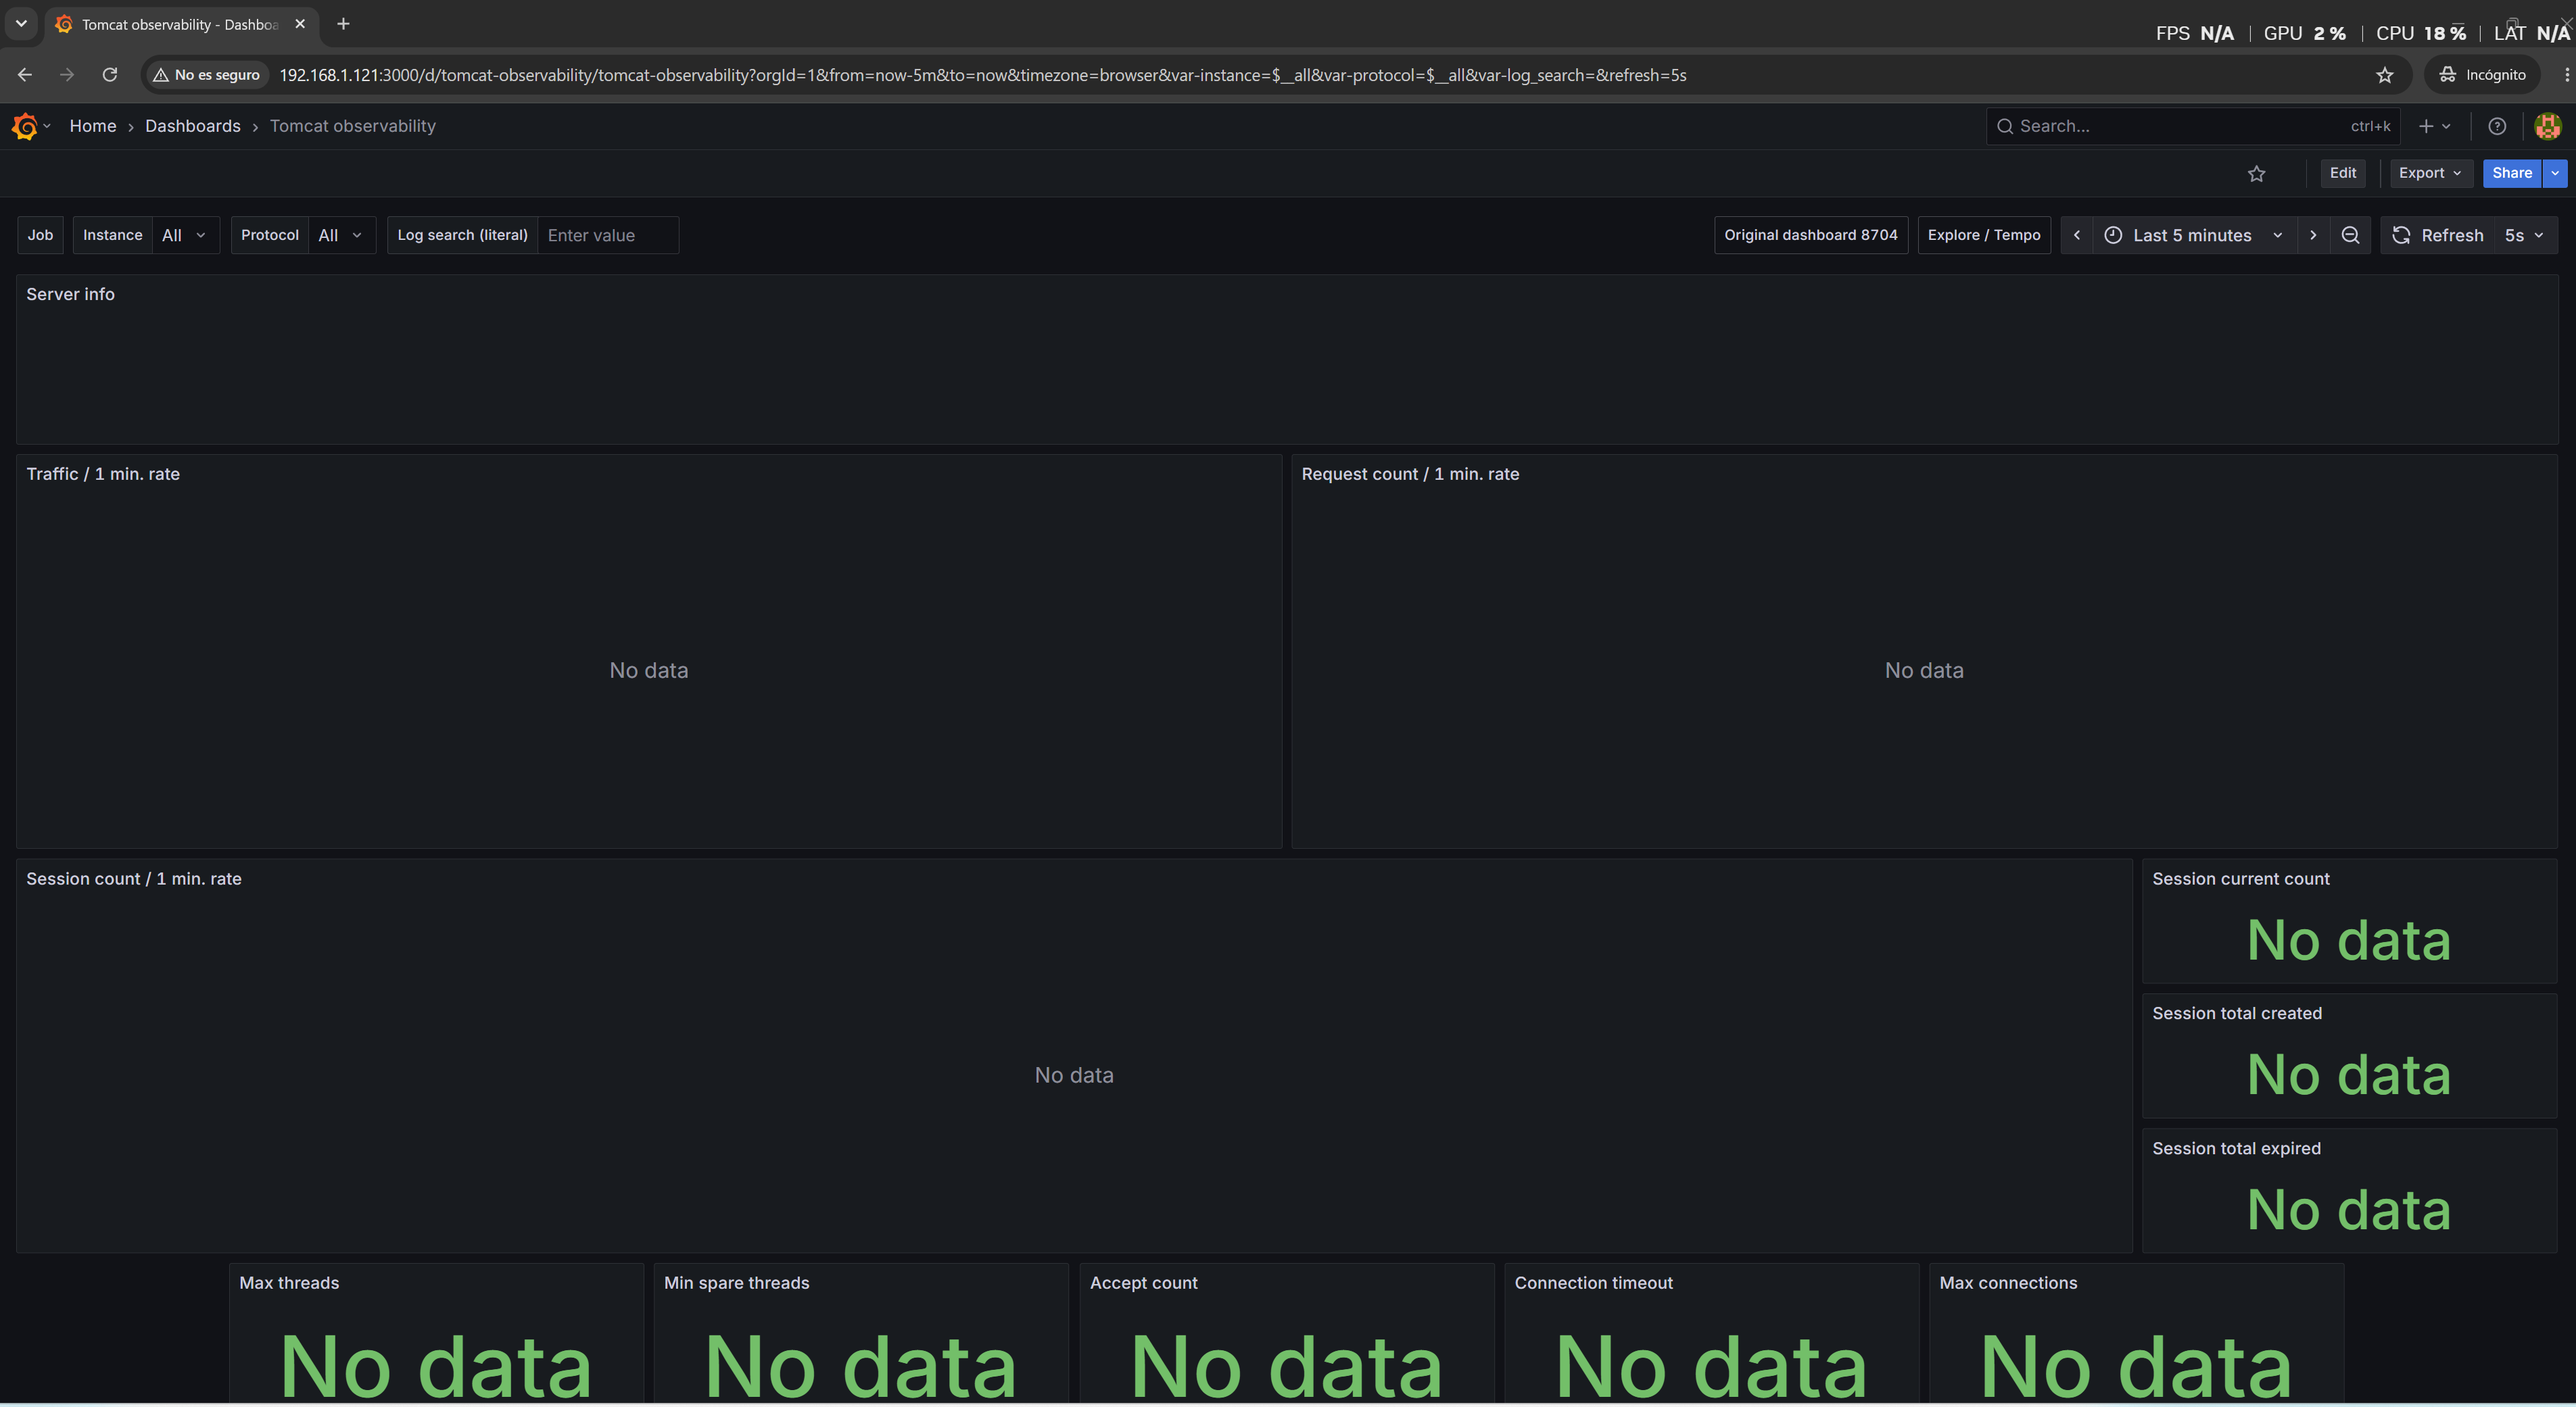
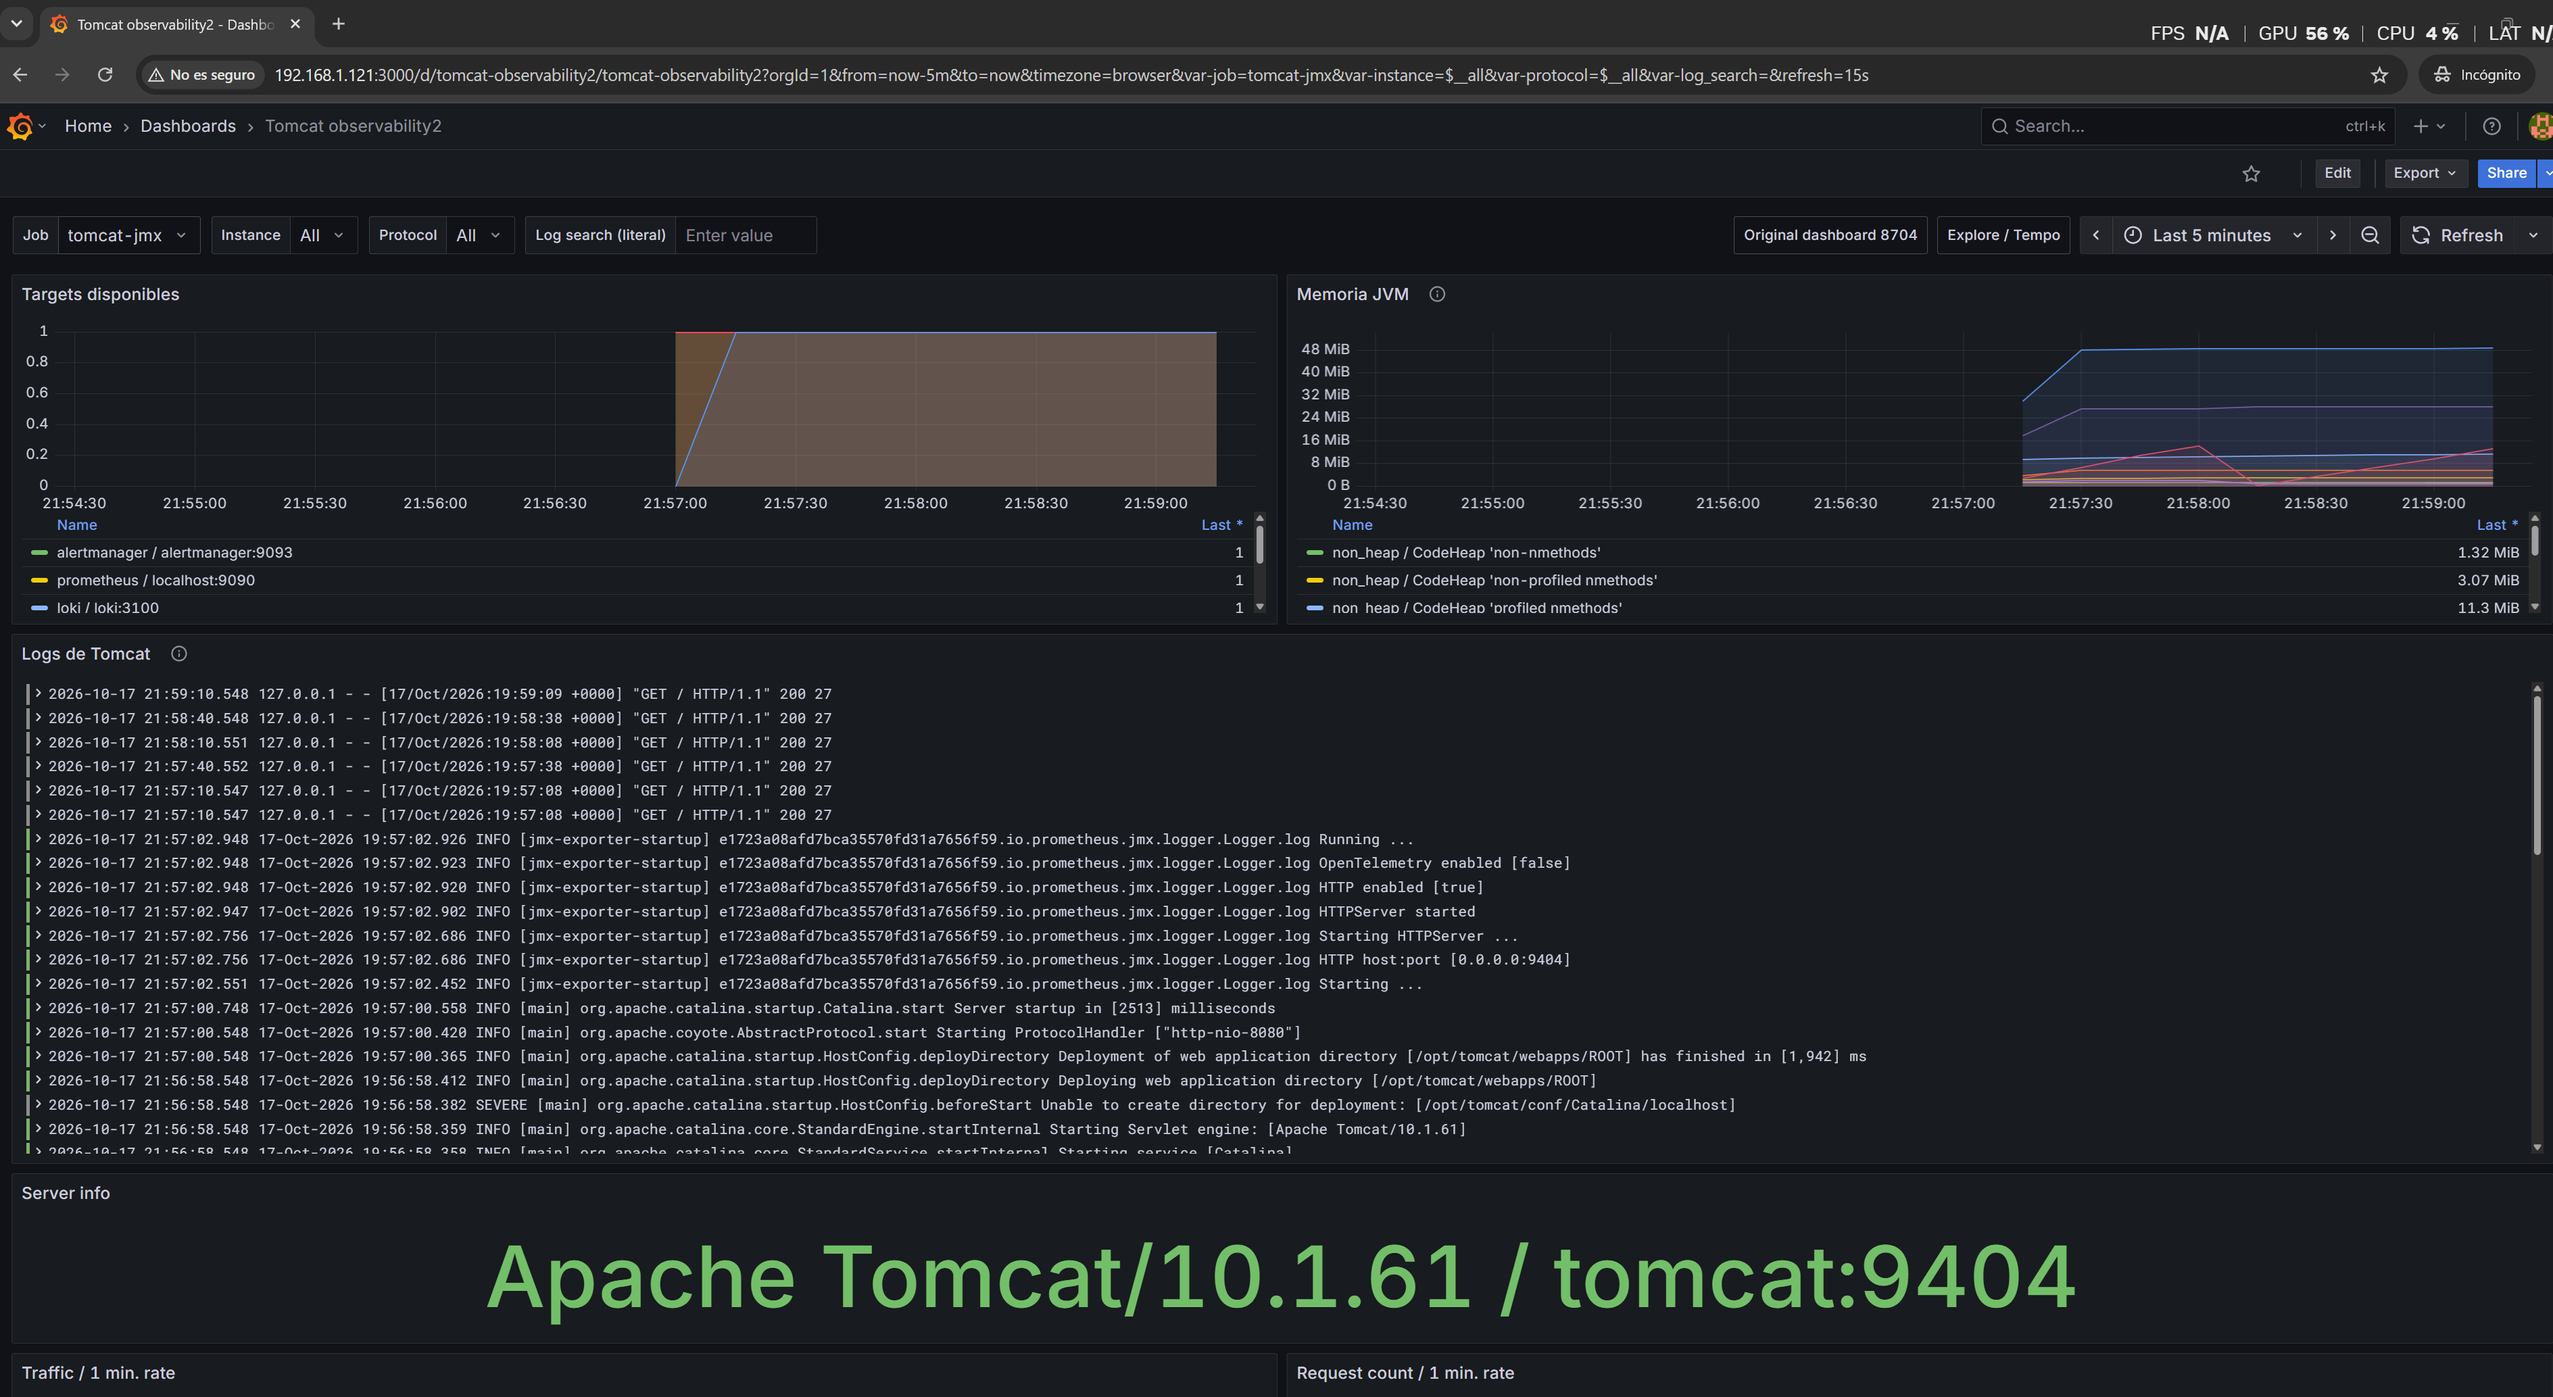
Upload correct dashboard

diff --git a/tomcat-observability/README.md b/tomcat-observability/README.md
@@ -24,7 +24,7 @@ Collector Contrib incluye el receptor **filelog**, que es el agente de recogida 
 
 ## Dashboard Tomcat 8704 con logs
 
-**Tomcat observability** se basa en el [dashboard 8704, revisión 1](https://grafana.com/grafana/dashboards/8704-tomcat-dashboard/). Conserva sus 16 paneles de métricas e incorpora el panel de logs de Loki justo debajo de Server info: 17 paneles en total. No necesitas importarlo manualmente; se provisiona desde `grafana/dashboards/tomcat.json` con las fuentes ya configuradas. Usa el dashboard con UID `tomcat-observability`; importar el original 8704 por separado no incluye nuestras adaptaciones ni el panel de logs.
+**Tomcat observability** se basa en el [dashboard 8704, revisión 1](https://grafana.com/grafana/dashboards/8704-tomcat-dashboard/). Incluye los tres paneles de la captura `tomcat_screenshot-1.png` en la parte superior: Targets disponibles y Memoria JVM en la primera fila, seguidos de Logs de Tomcat a todo el ancho. Debajo conserva los 16 paneles de métricas del 8704: 19 paneles en total. No necesitas importarlo manualmente; se provisiona desde `grafana/dashboards/tomcat.json` con las fuentes ya configuradas. Usa el dashboard con UID `tomcat-observability`; importar el original 8704 por separado no incluye nuestras adaptaciones ni el panel de logs.
 
 Adaptaciones para este entorno:
 
@@ -33,6 +33,7 @@ Adaptaciones para este entorno:
 - Los contadores antiguos de acceptor/poller threads se sustituyen por connection timeout y max connections, atributos disponibles en el conector NIO de Tomcat 10.1.
 - Logs con hora visible, ajuste de línea, detalles expandibles, orden más reciente primero y hasta 1000 líneas por consulta. El campo **Log search (literal)** filtra el texto; vacío muestra todo. Los filtros Job/Instance/Protocol afectan a las métricas JMX; los logs corresponden al único servicio Tomcat de este Compose.
 - El enlace **Explore / Tempo** permite consultar trazas. Se conserva el UID `tomcat-observability`, por lo que tu enlace anterior al dashboard sigue funcionando.
+- El resumen superior no depende de los filtros JMX: muestra todos los targets y la memoria JVM de Tomcat recibida por OpenTelemetry. Así puedes comprobar esas rutas aunque fallen las métricas JMX.
 
 ### Actualizar una instalación existente en Linux
 
